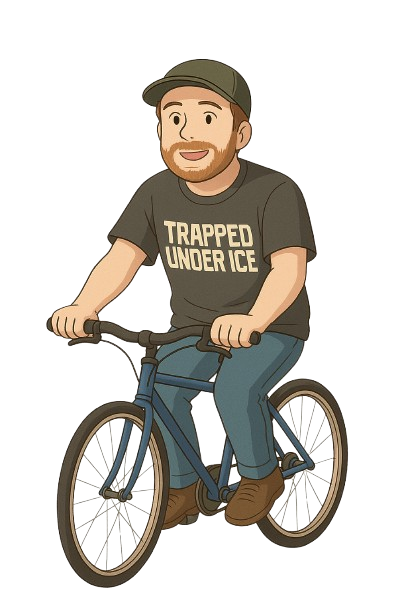
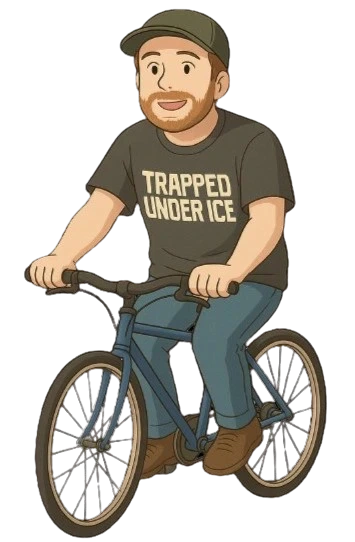
updated about images, styles, resposive

diff --git a/src/views/About.vue b/src/views/About.vue
@@ -19,7 +19,7 @@ const sections: Section[] = [
   },
   {
     id: 2,
-    text: "I love building websites that are clean, easy to navigate, and enjoyable to use. Most of my day-to-day work involves CMS theme builders, but I also create custom solutions with HTML, CSS, JS, and PHP when needed. I like keeping my code organized and efficient, and often consider ways to make it even better. While I’ve mostly worked with WordPress backend setups, I’m excited to continue growing my skills in backend development and working with data.",
+    text: "Most of my day-to-day work involves CMS theme builders, but I also create custom solutions with HTML, CSS, JS, and PHP when needed. I like keeping my code organized and efficient, and often consider ways to make it even better. While I’ve mostly worked with WordPress backend setups, I’m excited to continue growing my skills in backend development and working with data.",
     imageUrl: fsme,
     imageAlt: "An illustration of Stephen working on a laptop.",
   },
@@ -39,14 +39,21 @@ const sections: Section[] = [
       v-for="(section, index) in sections"
       :key="section.id"
       class="about"
-      :class="[{ reverse: index % 2 !== 0 }, { 'img-large': index === 1}]"
+      :class="[{ reverse: index % 2 !== 0 }, { 'img-large': index === 1 }, { 'img-small': index === 2 }]"
     >
       <div class="about-text">
         <p>{{ section.text }}</p>
       </div>
-      <div class="about-image">
-        <img :src="section.imageUrl" :alt="section.imageAlt" />
-      </div>
+
+      <img
+        :src="section.imageUrl"
+        :alt="section.imageAlt"
+        loading="lazy"
+        decoding="async"
+        fetchpriority="low"
+        width="350"
+        height="350"
+      />
     </div>
   </section>
 </template>
@@ -55,14 +62,19 @@ const sections: Section[] = [
 .about-container {
   display: flex;
   flex-direction: column;
-  gap: 2rem;
-  padding: 0;
+  gap: 3rem;
+  padding: 1rem 2rem;
+}
+
+.about-container h2 {
+  font-size: 2rem;
+  margin-bottom: 1rem;
 }
 
 .about {
   display: flex;
   align-items: center;
-  gap: 2rem;
+  gap: 4rem;
 }
 .about.reverse {
   flex-direction: row-reverse;
@@ -73,14 +85,8 @@ const sections: Section[] = [
   font-size: 1.3rem;
   line-height: 1.6;
 }
-.about-image {
-  flex: 1;
-  display: flex;
-  justify-content: center;
-  align-items: center;
-}
 
-.about-image img {
+img {
   width: 100%;
   max-width: 350px;
   height: auto;
@@ -89,7 +95,34 @@ const sections: Section[] = [
   display: block;
 }
 
+
 .img-large img {
   max-width: 450px;
+}
+
+@media (max-width: 768px) {
+  .about-container h2 {
+    text-align: center;
+  }
+  .about {
+    flex-direction: column-reverse;
+    gap: 2rem;
+  }
+  .about.reverse {
+    flex-direction: column-reverse;
+  }
+  .about-text {
+    font-size: 1.1rem;
+    text-align: center;
+  }
+  img {
+    max-width: 280px;
+  }
+  .img-large img {
+    max-width: 350px;
+  }
+  .img-small img {
+    max-width: 250px;
+  }
 }
 </style>
